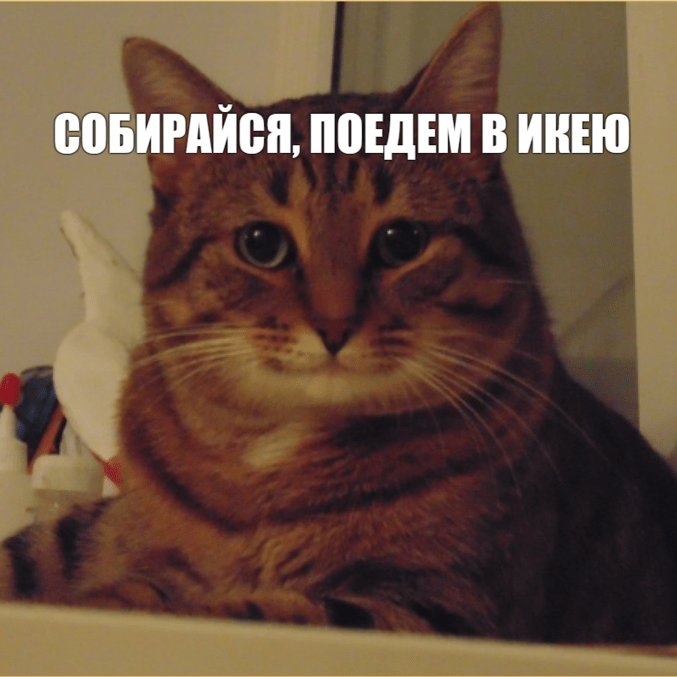
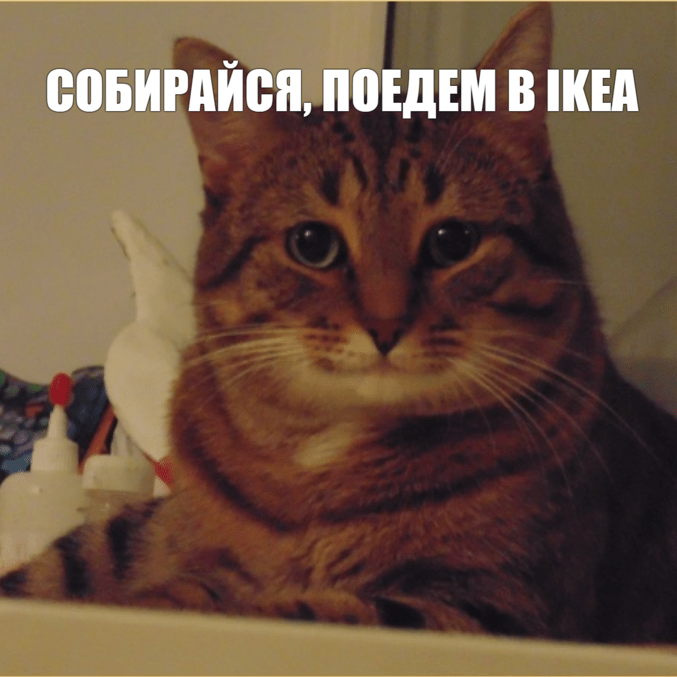
fix: fix active effect for labels and improove responsibility  (Sun, May 15, 2022 04:28:33 PM)

diff --git a/cssMemSlider/style.css b/cssMemSlider/style.css
@@ -12,6 +12,8 @@ body {
 	direction: ltr;
   background: rgb(255, 255, 255);
   color: azure;
+  overflow:auto;
+  padding: 2vh 0 0 0;
 }
 
 .wrapper input {
@@ -19,8 +21,8 @@ body {
 }
 
 .slider {
-  margin: 2vh auto;
-  max-width: 90vh;
+  margin: 0 auto;
+  max-width: 85vh;
   text-align: center;
 }
 
@@ -28,7 +30,8 @@ body {
   margin: 0 2vh;
   padding: 0.5% 2%;
   background: rgb(5, 19, 44);
-  border-radius: 1%;
+  border-radius: 2%;
+  box-shadow: 0px -2px 51px 0px rgba(34, 60, 80, 0.67);
 }
 
 .wrapper {
@@ -40,7 +43,7 @@ body {
 .inner-img {
   display: flex;
   width: 400%;
-  transition: all 0.4s ease 0s;
+  transition: all 0.6s ease 0s;
 }
 
 .slide {
@@ -56,6 +59,7 @@ img {
   display: flex;
   flex-direction: row-reverse;
   align-items: flex-start;
+  padding: 0.5rem 0 0 0;
 }
 
 .title-container {
@@ -66,13 +70,13 @@ img {
   display: flex;
   flex: 0 0 auto;
   width: 400%;
-  transition: all 0.45s ease 0s;
+  transition: all 0.6s ease 0s;
 }
 
 .slide-title {
   width: 25%;
   text-align: left;
-  padding: 1rem 0;
+  padding: 0.75rem 0;
 }
 
 .slide-title p {
@@ -82,31 +86,16 @@ img {
 .controls {
   flex: 0 0 auto;
   z-index: 2;
-  padding: 1rem 0;
   display: flex;
   justify-content: flex-end;
-}
-
-@media screen and (max-width: 550px) {
-  .under-img {
-    flex-direction: column;
-  }
-
-  .controls {
-    align-self: center;
-  }
-
-  .title-container {
-    width: 100%;
-  }
 }
 
 .controls label {
   display: inline-block;
   cursor: pointer;
-  width: 2rem;
-  height: 2rem;
-  padding:  0.4rem;
+  width: 3rem;
+  height: 3rem;
+  padding:  1rem;
 }
 
 label .label-mark {  
@@ -120,10 +109,40 @@ label:hover .label-mark {
   background: rgb(255, 255, 255);
 }
 
-label .label-mark:active {
+label:active .label-mark {
   transform: scale(0.5);
   background: rgb(0, 0, 0);
 }
+
+@media screen and (max-width: 550px), screen  and (max-height: 550px) {
+  .under-img {
+    flex-direction: column;
+  }
+
+  .controls {
+    align-self: center;
+  }
+
+  .title-container {
+    width: 100%;
+  }
+
+  body {
+    font-size: 1.25em;
+  }
+
+  .slider {
+    margin: 0.5vh auto;
+  }
+
+  .controls label {
+    width: 2.5rem;
+    height: 2.5rem;
+    padding:  0.75rem;
+  }
+}
+
+
 
 #slide1:checked ~ .under-img label[for=slide1] .label-mark,
 #slide2:checked ~ .under-img label[for=slide2] .label-mark,

diff --git a/cssMemSlider/index.html b/cssMemSlider/index.html
@@ -48,7 +48,7 @@
                 <div class="title-container">
                   <div class="inner-title">
                     <div class="slide-title slide_1">
-                        <p>Собирайся, поедем в икею</p>
+                        <p>Собирайся, поедем в IKEA</p>
                     </div>
                     <div class="slide-title slide_2">
                           <p>Новое постельное белье выбирать</p>
